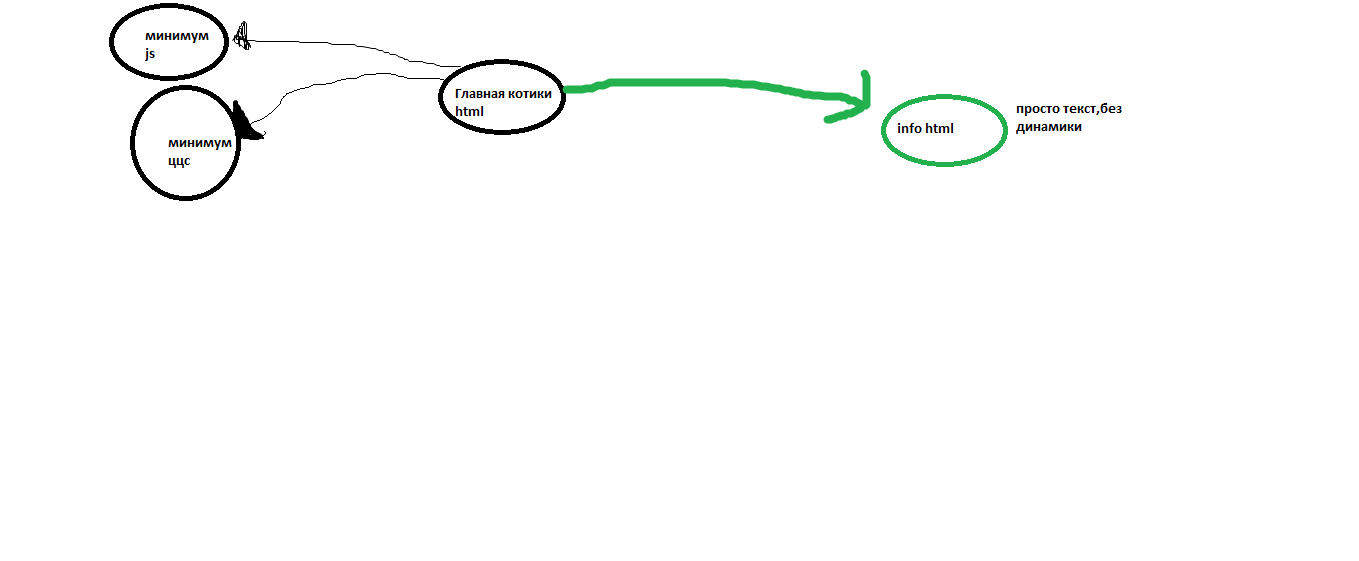
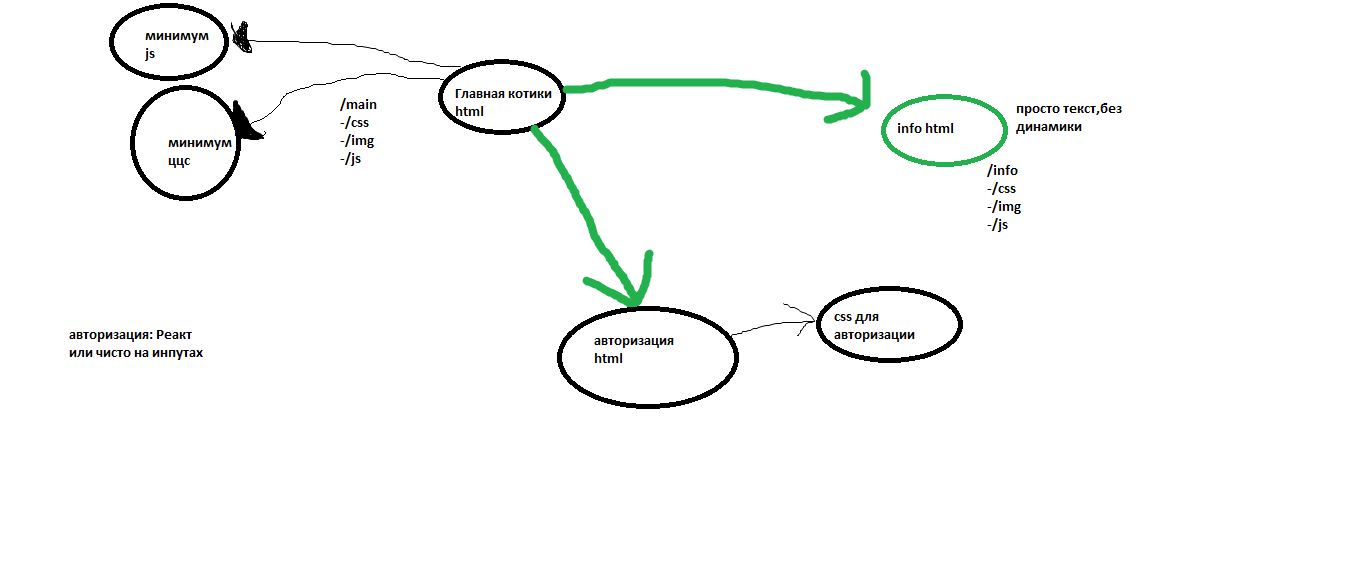
add info pages

diff --git a/info/info.html b/info/info.html
@@ -1,0 +1,46 @@
+<!DOCTYPE html>
+<html lang="ru">
+<head>
+	<meta charset="utf-8">
+	<title>Инфо</title>
+
+	<link rel="stylesheet" href="./style/styleInfo.css">
+</head>
+<body>
+	<header class="header" id="header">
+	       <ul class="navigation">
+	            <li><a class="navigation_link" href="../main.html">Main</a></li>
+	            <li><a class="navigation_link" href="../autorization/autorization.html">Login</a></li>
+	            <li><a class="navigation_link" href="#">Info</a></li>
+	        </ul>
+	</header>
+
+	<section class="facts">
+		<h2 class="facts_text">Interesting facts about cats</h2>
+		<ol class="facts_list">
+			<li>Among cat owners, there are 17% more people with advanced degrees.</li>
+			<li>Cats do not feel sweet taste.</li>
+			<li>Men who have cats are considered happier in love.</li>
+			<li>Cats rub against people to mark them as their territory.</li>
+			<li>Excessive love for cats is called ilurophil.</li>
+			<li>Cats from their owners reduce the risk of stroke and heart attack by a third.</li>
+			<li>In general, cats have a lower social IQ than dogs, but can solve more complex cognitive tasks when they are interested.</li>
+			<li>Cats often have lactose intolerance, so stop giving them milk!</li>
+			<li>Cats sleep about 70% of their lives.</li>
+			<li>The length of the largest cat - 1.2319 meters.</li>
+			<li>Now in the world there are over 500 million domestic cats. The most “cat” country is Australia: for 10 people there are 9 cats.</li>
+			<li>For 15 years, the mayor of Talkitna, Alaska, was a cat named Stubbs.</li>
+		</ol>
+	</section>
+
+	<footer class="footer">
+    	<section class="footer_info">
+	    	 <a class="logo_footer" href="#header">
+	            <img src="./img/logo.png" alt="Главная" width="50" height="29">
+	        </a>
+	        <p class="text_header">Made in Alexandr Losich.What would get to practice in JazzTeam</p>
+	        <p class="text_header">|@2019</p>
+        </section>
+    </footer>
+</body>
+</html>

diff --git a/info/style/styleInfo.css b/info/style/styleInfo.css
@@ -1,0 +1,80 @@
+body {
+   padding: 0;
+   margin: 0;
+  
+   background-image: url(../img/background.jpg);
+   background-repeat: no-repeat;
+   background-position: top;
+}
+/*header*/
+.header {
+    background-color: rgb(0, 0, 0, 0.10);
+}
+
+.navigation {
+    display: flex;
+    justify-content: space-between;
+    max-width: 1200px;
+    height: 90px;
+    align-items: center;
+    margin:0 auto;
+    padding: 0 auto;
+
+    list-style-type: none;
+}
+
+.navigation_link {
+    display: block;
+    height: 90px;
+    line-height: 90px;
+
+    font-family: Arial;
+    font-size: 18px;
+    font-style: italic;
+    color: #993322;
+
+    text-decoration:none;
+}
+
+.navigation_link:hover {
+    border-bottom: 1px solid #336699;
+    color: #bb3322;
+}
+
+/*info*/
+.facts {
+    max-width: 1300px;
+    margin: 275px auto;
+}
+
+.facts_text {
+    font-family: Verdana;
+}
+
+.facts_list {
+    width: 600px;
+    font-family: Arial;
+}
+
+/*footer*/
+.footer {
+    background-color: rgb(0, 0, 0, 0.10);
+}
+
+.footer_info {
+    height: 50px;
+    width: 1300px;
+    margin:0 auto;
+    padding: 0 auto;
+    display: flex;
+    justify-content: space-between;
+    align-items: center;
+}
+
+.text_header {
+    padding-right: 30px;
+
+    user-select: none;
+    font-size: 10px;
+    color: #222222;
+}
